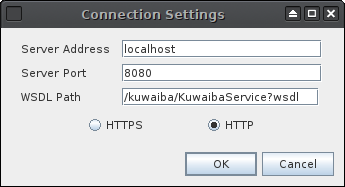
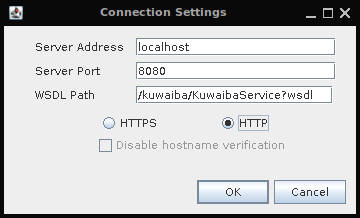
Added Class Hierarchy View subsection to the Data Model Manager Documentation, as well as the extra connection settings related to HTTPS connections

diff --git a/docs/user_manual/user_manual.tex b/docs/user_manual/user_manual.tex
@@ -140,7 +140,8 @@
 		\item \textbf{Server Address} Refers to the server IP address or canonical name.
 		\item \textbf{Server Port} is the port Glassfish (the application server) is listening to.
 		\item \textbf{WSDL Path} is the path within the application server the web service interface definition can be found. Usually this value should remain unchanged.
-		\item Protocol is the transport protocol to be used. By default is HTTP, but is highly advisable to request your administrator to setup a secure connection, otherwise your credentials will be transmitted in plain text over the network. 
+		\item \textbf{Protocol} is the transport protocol to be used. By default is HTTP, but is highly advisable to request your administrator to setup a secure connection, otherwise your credentials will be transmitted in plain text over the network.
+		\item \textbf{Disable hostname verification} is disabled by default and applies only to HTTPS connections. If checked, the hostname in the digital certificate does not have to have to match the hostname you've typed in the "Server Address" field. This is useful if, for example, you are trying to connect to a server using its IP address, but the certificate was generated using its FQDN. You won't have to touch this checkbox in most cases.
 	\end{itemize}
 	Except for the password, the last successful settings will be saved upon clicking OK.
 	\begin{framed} {\large \textbf{Important}} \\
@@ -207,55 +208,95 @@
 			\caption{Part of the data model tree}
 			\label{fig:data_model_manager}
 		\end{figure}
-		The data model is represented as a tree because it's a hierarchical structure. Technically, it's a class hierarchy\footnote{Class Hierarchy https://en.wikipedia.org/wiki/Class\_hierarchy}. The top of the hierarchy (\textbf{InventoryObject}) is the most general type of element in the data model and its subclasses represent all the possible elements that will be treated as inventory assets. As you dig deeper into the tree, the classes become more and more specialized and each level inherits the attributes of the parent classes. This kind of structure has two purposes: First, it helps you to organize your classes based on what characteristics they have in common. Secondly, as you will see later in this manual, you can apply operations over top level classes, and they will be propagated to all subclasses. Another root of the data model tree is \textbf{GenericObjectList}, and its subclasses are all possible list types (see more details on the subject in the chapter \textbf{\nameref{sec:list_type_manager}}).\newline
-		
-		\begin{framed} {\large \textbf{Important}} \\
-				The \textbf{Properties} window allows you to modify the attributes of a selected object in a tree, list or view. If not already open, it's available from the Windows $\rightarrow$ Properties menu.
-		\end{framed}
-		The properties of a class can be edited by using the \textbf{Properties} window, selecting the class from the tree (see figure~\ref{fig:properties_class_node}). 
-		\begin{figure}[h!]
+		\begin{table}[h!]
 			\centering
-			\includegraphics[width=0.5\linewidth]{img/properties_class_node.png}
-			\caption{Properties of class \textbf{Router}}
-			\label{fig:properties_class_node}
-		\end{figure}
-		The  property  sheet  is  divided  in  two  sections: 
-		\begin{itemize}
-			\item \textbf{General:} Contains the intrinsic properties  of  the class: \textbf{name} (can contain only letters and numbers with no special characters  or  blank  spaces). The  \textbf{display name} of the class, that's how the  will be displayed everywhere else (useful  for  internationalization  purposes, for example) and can contain any kind of UTF-8 character. A \textbf{description} (useful  to  document  the  data  model). If  the class is \textbf{abstract} (abstract classes  cannot  be  instantiated, they're only used to give consistency to the  data  model). The attribute \textbf{countable} is not used currently, but it should be used to mark classes whose instances can have graphical representations, but  they're  not really  part  of  the  inventory,  such  as  \textbf{Slots}. \textbf{In Design Stage} is just a way to mark a class as part of an ongoing data model intervention, and thus, classes with that attribute set to true can not be instantiated. \textbf{Color} is the color of the default square icon used to display the object in a tree or view. This icon will be used as long as the \textbf{Small Icon} attribute is null. \textbf{Small Icon} is the icon that will be used in trees and its size can't exceed 16x16 pixels. \textbf{Icon} is the icon used in views, and has a maximum size of 32x32 pixels.
-			\begin{framed} {\large \textbf{Important}}
-				\begin{itemize}
-					\item All user-created classes are set In Design Stage = \textbf{\textcolor{green}{true}} by default. You won't be able to create objects of these classes until you set it to \textbf{\textcolor{blue}{false}}.
-					\item As a convention, all abstract classes have the prefix \textbf{Generic}. Note that a few core classes (like \textbf{InventoryObject} or \textbf{\textcolor{green}{true}}) are abstract are the exception to this rule. You, however, should try to follow this convention as much as possible.
-				\end{itemize}
+			\begin{tabular}{cp{10cm}}
+				\includegraphics[width=0.7cm]{img/icon_data_model_default_layout.png} & Resets the tree to its initial position (that is, with two root nodes: \textbf{GenericObjectList} and \textbf{InventoryObject}).\\
+				\midrule
+				\includegraphics[width=0.7cm]{img/icon_data_model_class_hierarchy_view.png} & Opens a window with a graphical representation of the data model tree,  easier to navigate.\\
+				\midrule
+				\includegraphics[width=5cm]{img/data_model_manager_search.png} & Searches for a particular class.\\
+			\end{tabular}
+			\caption{Data Model manager toolbar items}
+			\label{tab:data_model_manager_toolbar_icons}
+		\end{table}
+		\subsection{Class Tree}
+			The data model is represented as a tree because it's a hierarchical structure. Technically, it's a class hierarchy\footnote{Class Hierarchy https://en.wikipedia.org/wiki/Class\_hierarchy}. The top of the hierarchy (\textbf{InventoryObject}) is the most general type of element in the data model and its subclasses represent all the possible elements that will be treated as inventory assets. As you dig deeper into the tree, the classes become more and more specialized and each level inherits the attributes of the parent classes. This kind of structure has two purposes: First, it helps you to organize your classes based on what characteristics they have in common. Secondly, as you will see later in this manual, you can apply operations over top level classes, and they will be propagated to all subclasses. Another root of the data model tree is \textbf{GenericObjectList}, and its subclasses are all possible list types (see more details on the subject in the chapter \textbf{\nameref{sec:list_type_manager}}).\newline
+			
+			\begin{framed} {\large \textbf{Important}} \\
+					The \textbf{Properties} window allows you to modify the attributes of a selected object in a tree, list or view. If not already open, it's available from the Windows $\rightarrow$ Properties menu.
 			\end{framed}
-			\item The second section  contains the class fields (attributes). In the  figure\ref{fig:properties_class_node}, class Router  has six attributes: name, state, conditions, vendor, serialNumber and creationDate. Click the button next to the attribute name to customize it (see figure~\ref{fig:class_attribute_details}).
+			The properties of a class can be edited by using the \textbf{Properties} window, selecting the class from the tree (see figure~\ref{fig:properties_class_node}). 
 			\begin{figure}[h!]
 				\centering
-				\includegraphics[width=0.4\linewidth]{img/class_attribute_details.png}
-				\caption{Properties of attribute \textbf{name} in class \textbf{Router}}
-				\label{fig:class_attribute_details}
+				\includegraphics[width=0.5\linewidth]{img/properties_class_node.png}
+				\caption{Properties of class \textbf{Router}}
+				\label{fig:properties_class_node}
 			\end{figure}
-		\end{itemize}
-		In this window, you can modify the attribute's name, display name, description, type  (the drop-down list will show you primitive types -String, Integer, Float, Long, etc- and all available non-abstract list types). When you change an attribute's type, all existing instances will be	modified to reflect the change, which means that the values of the modified attribute will be converted to the new type if possible (say, from Integers to Strings). If the conversion is not possible, the new value will be set to null. You  can  also  manage  the  attribute  visibility. Attributes marked as “Administrative” will be shown in a separate tab in the object's property sheet. Sometimes, there are  attributes that are used only for administrative purposes and might confuse the end user if mixed with the regular attributes. Finally, you can choose what attributes shouldn't be transferred from one object to another in a copy operation.
-		
-		\begin{framed} {\large \textbf{Important}}
+			The  property  sheet  is  divided  in  two  sections: 
 			\begin{itemize}
-				\item You may lose information when changing an attribute's type. make sure the conversion to the new type is possible before you do it.
-				\item Although there's a Cancel button at the bottom of the window, it does not	really work. When you perform a change, it's saved immediately.
+				\item \textbf{General:} Contains the intrinsic properties  of  the class: \textbf{name} (can contain only letters and numbers with no special characters  or  blank  spaces). The  \textbf{display name} of the class, that's how the  will be displayed everywhere else (useful  for  internationalization  purposes, for example) and can contain any kind of UTF-8 character. A \textbf{description} (useful  to  document  the  data  model). If  the class is \textbf{abstract} (abstract classes  cannot  be  instantiated, they're only used to give consistency to the  data  model). The attribute \textbf{countable} is not used currently, but it should be used to mark classes whose instances can have graphical representations, but  they're  not really  part  of  the  inventory,  such  as  \textbf{Slots}. \textbf{In Design Stage} is just a way to mark a class as part of an ongoing data model intervention, and thus, classes with that attribute set to true can not be instantiated. \textbf{Color} is the color of the default square icon used to display the object in a tree or view. This icon will be used as long as the \textbf{Small Icon} attribute is null. \textbf{Small Icon} is the icon that will be used in trees and its size can't exceed 16x16 pixels. \textbf{Icon} is the icon used in views, and has a maximum size of 32x32 pixels.
+				\begin{framed} {\large \textbf{Important}}
+					\begin{itemize}
+						\item All user-created classes are set In Design Stage = \textbf{\textcolor{green}{true}} by default. You won't be able to create objects of these classes until you set it to \textbf{\textcolor{blue}{false}}.
+						\item As a convention, all abstract classes have the prefix \textbf{Generic}. Note that a few core classes (like \textbf{InventoryObject} or \textbf{\textcolor{green}{true}}) are abstract are the exception to this rule. You, however, should try to follow this convention as much as possible.
+					\end{itemize}
+				\end{framed}
+				\item The second section  contains the class fields (attributes). In the  figure\ref{fig:properties_class_node}, class Router  has six attributes: name, state, conditions, vendor, serialNumber and creationDate. Click the button next to the attribute name to customize it (see figure~\ref{fig:class_attribute_details}).
+				\begin{figure}[h!]
+					\centering
+					\includegraphics[width=0.4\linewidth]{img/class_attribute_details.png}
+					\caption{Properties of attribute \textbf{name} in class \textbf{Router}}
+					\label{fig:class_attribute_details}
+				\end{figure}
 			\end{itemize}
-		\end{framed}
-		You can also create and delete classes and attributes by right-clicking a class node (see figure~\ref{fig:class_node_menu})
-		\begin{figure}[h!]
-			\centering
-			\includegraphics[width=0.4\linewidth]{img/class_node_menu.png}
-			\caption{Class \textbf{Router} context menu}
-			\label{fig:class_node_menu}
-		\end{figure}
-		New subclasses inherit the parent class attributes. Classes with instances or subclasses can not be deleted (this is  a  feature to avoid unintended loss of  data). Also, attribute \textbf{name} can not be deleted.
-		\begin{framed} {\large \textbf{Important}}
-			It's highly recommended \textbf{\textcolor{red}{NOT}} to rename abstract core classes, as some of them are used internally to support many features and renaming them may turn the system unstable.
-		\end{framed}
-		
+			In this window, you can modify the attribute's name, display name, description, type  (the drop-down list will show you primitive types -String, Integer, Float, Long, etc- and all available non-abstract list types). When you change an attribute's type, all existing instances will be	modified to reflect the change, which means that the values of the modified attribute will be converted to the new type if possible (say, from Integers to Strings). If the conversion is not possible, the new value will be set to null. You  can  also  manage  the  attribute  visibility. Attributes marked as “Administrative” will be shown in a separate tab in the object's property sheet. Sometimes, there are  attributes that are used only for administrative purposes and might confuse the end user if mixed with the regular attributes. Finally, you can choose what attributes shouldn't be transferred from one object to another in a copy operation.
+			
+			\begin{framed} {\large \textbf{Important}}
+				\begin{itemize}
+					\item You may lose information when changing an attribute's type. make sure the conversion to the new type is possible before you do it.
+					\item Although there's a Cancel button at the bottom of the window, it does not	really work. When you perform a change, it's saved immediately.
+				\end{itemize}
+			\end{framed}
+			You can also create and delete classes and attributes by right-clicking a class node (see figure~\ref{fig:class_node_menu})
+			\begin{figure}[h!]
+				\centering
+				\includegraphics[width=0.4\linewidth]{img/class_node_menu.png}
+				\caption{Class \textbf{Router} context menu}
+				\label{fig:class_node_menu}
+			\end{figure}
+			New subclasses inherit the parent class attributes. Classes with instances or subclasses can not be deleted (this is  a  feature to avoid unintended loss of  data). Also, attribute \textbf{name} can not be deleted.
+			\begin{framed} {\large \textbf{Important}}
+				It's highly recommended \textbf{\textcolor{red}{NOT}} to rename abstract core classes, as some of them are used internally to support many features and renaming them may turn the system unstable.
+			\end{framed}
+		\subsection{Class Hierarchy View}
+			The data model can also be displayed on a canvas to improve the visualization and navigation. You can perform the same actions available in the standard tree view. To use it, click on the \textit{Class Hierarchy View} icon \includegraphics[width=0.7cm]{img/icon_data_model_class_hierarchy_view.png}, as seen in the Table~\ref{tab:data_model_manager_toolbar_icons}.
+			\begin{table}[h!]
+				\centering
+				\begin{tabular}{cp{10cm}}
+					\includegraphics[width=0.7cm]{img/icon_expand_all.png} & Show all classes, without displaying the attributes\\
+					\midrule
+					\includegraphics[width=0.7cm]{img/icon_collapse_all.png} & Collapse the tree, showing only the root class (\textbf{RootObject})\\
+					\midrule
+					\includegraphics[width=0.7cm]{img/icon_expand_all_with_attributes.png} & Show all classes, displaying also their attributes\\
+					\midrule
+					\includegraphics[width=0.7cm]{img/icon_organize.png} & If after expanding a class node it overlaps with another, use this button to organize again the tree\\
+					\midrule
+					\includegraphics[width=3cm]{img/data_model_manager_locate.png} & Locate a class in the tree\\
+				\end{tabular}
+				\caption{Class Hierarchy View toolbar icons}
+				\label{tab:class_hierarchy_view_icons}
+			\end{table}
+			
+			Each node of the tree represents a class and you can display/hide its attributes by expanding the node using the small triangle \includegraphics[width=0.5cm]{img/data_model_manager_triangle.png} at the top left corner of it. By default, and taking into account that the data model may have a considerable amount of classes, only the root class (\textbf{RootObject}) is displayed. You can either display the whole hierarchy by pressing the buttons \includegraphics[width=0.7cm]{img/icon_expand_all.png}/\includegraphics[width=0.7cm]{img/icon_expand_all_with_attributes.png} or expanding one level at a time, using the right-click menu:
+			\begin{figure}[h!]
+				\centering
+				\includegraphics[width=0.5\linewidth]{img/data_model_manager_menu.png}
+				\caption{Class node context menu}
+				\label{fig:class_hierarchy_context_menu}
+			\end{figure}
+			
+			
 	\newpage
 	\section{Containment Manager} \label{sec:containment_manager}
 	Another key concept in Kuwaiba is containment. It consists of the ability to define what kind of objects can be created within others. For example, a \textbf{Country} can be inside a \textbf{Continent}, but can't be inside a \textbf{Rack}. A \textbf{Port} is usually within a \textbf{Board}, and not inside a \textbf{City}. These business rules can be defined using the Containment Manager.
@@ -660,7 +701,7 @@
 	\end{figure}
 	
 	\newpage
-	Once it's created, you cant edit the pool attributes \textit{name} and \textit{description} in the property sheet.
+	Once it's created, you can edit the pool attributes \textit{name} and \textit{description} in the property sheet.
 	\begin{figure}[h!]
 		\centering
 		\includegraphics[width=0.5\linewidth]{img/pools_pool_properties.png}
